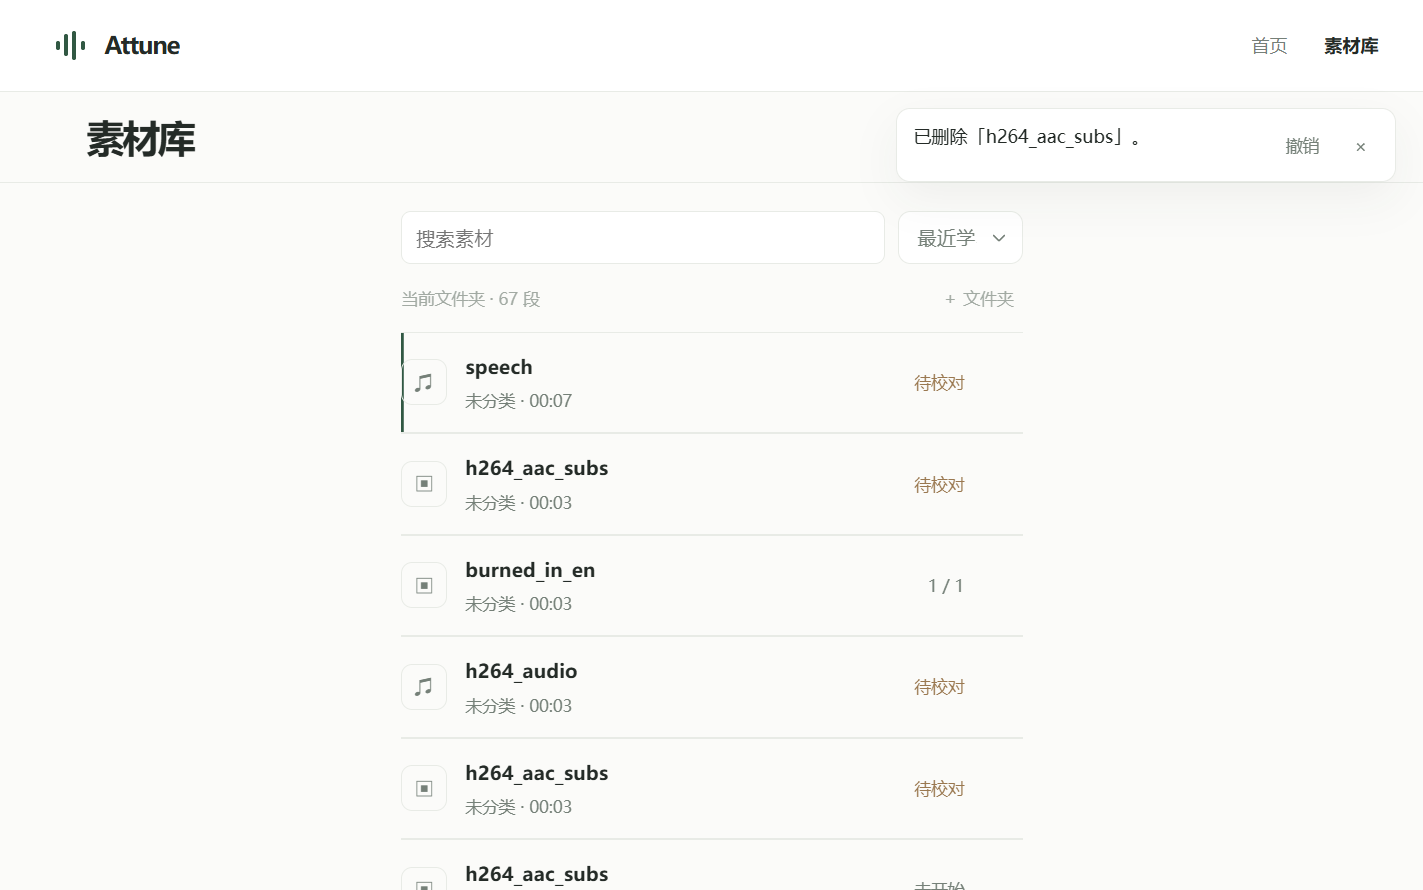
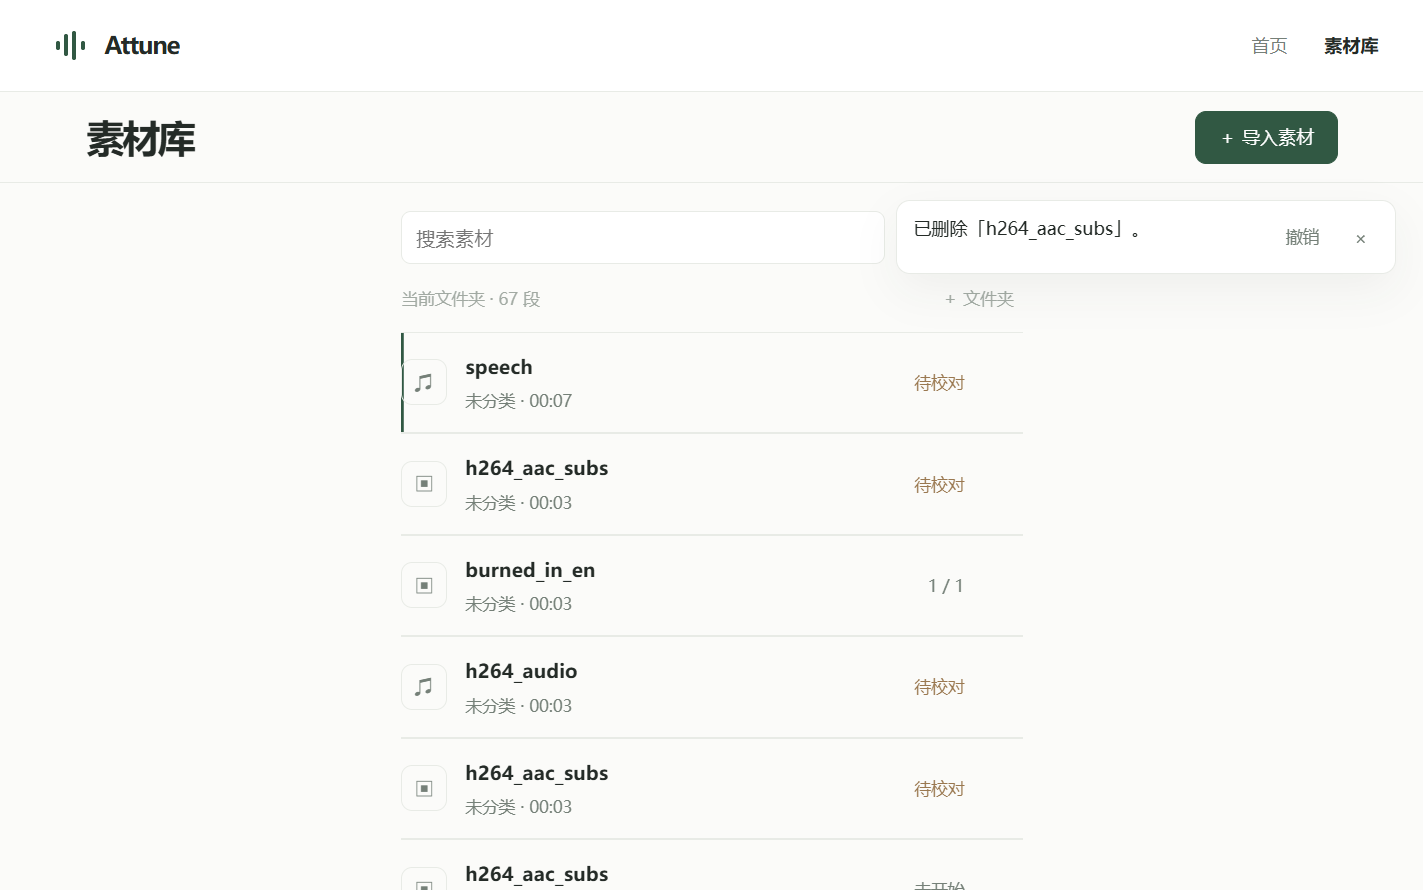
docs(ui): UX-3 提示改位与安装同意人眼冒烟证据（PASS）

diff --git a/docs/evidence/ux-3/README.md b/docs/evidence/ux-3/README.md
@@ -2,34 +2,36 @@
 
 - 分支：`feat/ux-3-notice-undo`
 - 基线：`origin/main` @ `98e55cd`
-- 实施 tip：`0c68e1aefc121ffc06138c16591fc609efeba66c`
+- 实施 tip：`75b942b2c1a790c95e90df7f529fa707f6c5243c`（提示挪位 `b87db29`，安装同意露出 `75b942b`）
 - 机器：Windows LM，WebView2 CDP `:9222`
 - 启动：`npm run desktop` + `WEBVIEW2_ADDITIONAL_BROWSER_ARGUMENTS=--remote-debugging-port=9222`
 - 脚本：`scripts/_cdp_ux3_smoke.mjs`
 - 总评：**PASS**
-- 时间：2026-11-26 16:12（Asia/Shanghai）
+- 时间：2026-11-26 16:56（Asia/Shanghai）
 - 素材：`C:\Users\PC\AttuneSmoke\p3\speech.wav`
 - 视口：客户区 1024×640（实测 inner 1024×640，DPI ≈ 1.39）
 
-首页「只有一条上次学习」那张，是在临时只保留一条已学素材后拍摄的；拍完已把 IndexedDB 还原。删除路径用素材库第一条「h264_aac_subs」，删除前后以文件夹条数核对（68 → 67，撤销后回到 68）；库里还有同名条目，所以不能只看名称是否还在列表里。
+首页「只有一条上次学习」那张，是在临时只保留一条已学素材后拍摄的；拍完已把 IndexedDB 还原。删除路径用素材库第一条「h264_aac_subs」，删除前后以文件夹条数核对（68 → 67，撤销后回到 68）；库里还有同名条目，所以不能只看名称是否还在列表里。本机已装过本地工具，安装同意那张是用页面内的 `__ATTUNE_FORCE_TOOLS_MISSING` 钩子走同一条「同意安装」路径，拍完已取消并清掉钩子，没有真正下载。
 
 ## 结果
 
 | # | 路径 | 结果 | 关键截图 |
 | --- | --- | --- | --- |
 | 1 | 首页只有一条「上次学习」时，不再留下空的「最近学习」标题 | **PASS** | `10-home-one-recent.png` |
-| 2 | 导入成功后，右上角短时提示「音频已导入：speech.wav」，不占内容列，也不把版面顶走 | **PASS** | `20-import-toast.png` |
+| 2 | 导入成功后，标题行下方右侧出现短时提示「音频已导入：speech.wav」，不占内容列，也不把版面顶走 | **PASS** | `20-import-toast.png` |
 | 3 | 循环和重听是两套不同的图标，能一眼分开；核对区仍保留「重听」文字按钮 | **PASS** | `40-study-entered.png`、`41-player-icons.png` |
 | 4 | 菜单里语速标签只写「语速」，当前倍速只出现在下拉里；「核对答案」整颗看得见 | **PASS** | `42-menu-speed.png` |
 | 5 | 「快捷键」在菜单底部展开说明，不再用横幅；输入区和播放器仍在原位，「核对答案」、句序和顶栏没有被挡住 | **PASS** | `50-shortcuts-in-menu.png` |
-| 6 | 从行菜单删除素材，没有系统确认框；出现「已删除「h264_aac_subs」。」和「撤销」；点撤销后条目回来 | **PASS** | `60-delete-undo-toast.png`、`61-delete-undone.png` |
+| 6 | 从行菜单删除素材，没有系统确认框；出现「已删除「h264_aac_subs」。」和「撤销」；提示不挡住「＋ 导入素材」，按钮仍可点；点撤销后条目回来 | **PASS** | `60-delete-undo-toast.png`、`61-delete-undone.png` |
 | 7 | 清理全部媒体缓存是页内说明和确认，按钮为「清理」「取消」 | **PASS** | `70-cache-confirm.png` |
+| 8 | 安装本地工具是页内说明和确认，按钮为「同意安装」「取消」，整段和主按钮都看得见 | **PASS** | `80-install-consent.png` |
 
 ### 几何与人眼补充
 
-- **导入提示：** toast 主机是 `position: fixed`，文案「音频已导入：speech.wav」，与输入区、播放器、「核对答案」、句序、标题均无相交。
+- **导入提示：** toast 主机是 `position: fixed`，落在顶栏和标题行之下、右侧，文案「音频已导入：speech.wav」。与输入区、播放器、「核对答案」、句序、标题均无相交。因全局提示改位，本张已重拍。
 - **快捷键说明：** 说明块在可滚动的听写菜单里。打开后菜单最小宽度加到 228px，便于把「核对或进入下一句」一类短句放下。较长的「在输入框外」仍会在句末折行，但整段看得见。菜单会盖住输入框右侧一角，这和打开菜单时本来就会盖住右侧的情况一样；输入区和播放器没有被顶走，「核对答案」、句序、顶栏均无相交。
-- **删除：** 删除时 `window.confirm` 调用次数为 0；当前文件夹条数 68 → 67；提示含「撤销」；点撤销后条数回到 68，被删的「h264_aac_subs」回到列表顶部。
+- **删除：** 删除时 `window.confirm` 调用次数为 0；当前文件夹条数 68 → 67；提示含「撤销」。提示盒子为 `(644,144)–(1004,197)`，「＋ 导入素材」为 `(860,80)–(962,118)`，二者无相交；按钮中心命中测试落在按钮上，而不是提示上。点撤销后条数回到 68，被删的「h264_aac_subs」回到列表顶部。因提示改位，本张已重拍。
+- **安装本地工具：** 页内说明写清体积（约 79 MB）和「只用于本机」，按钮为「同意安装」「取消」，在 1024×640 下整段和两颗按钮都看得见，没有被裁切。
 
 ## 未做 / 软口
 
